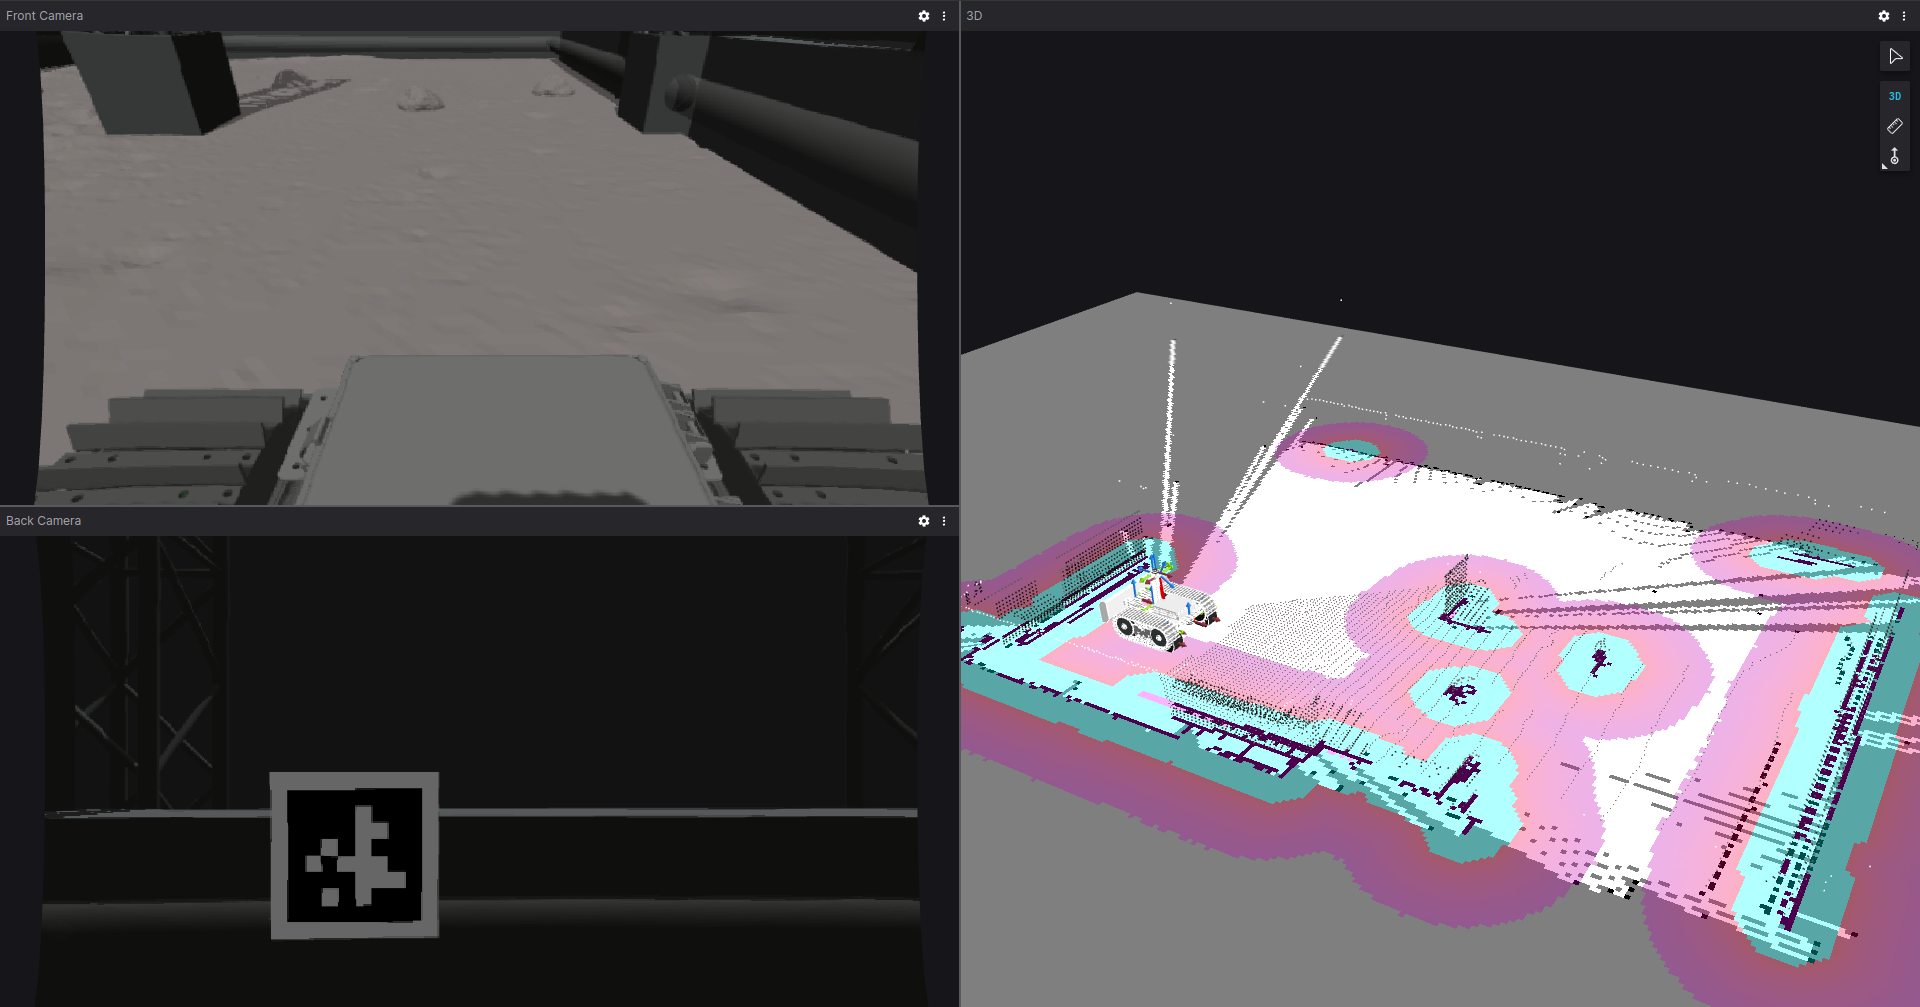
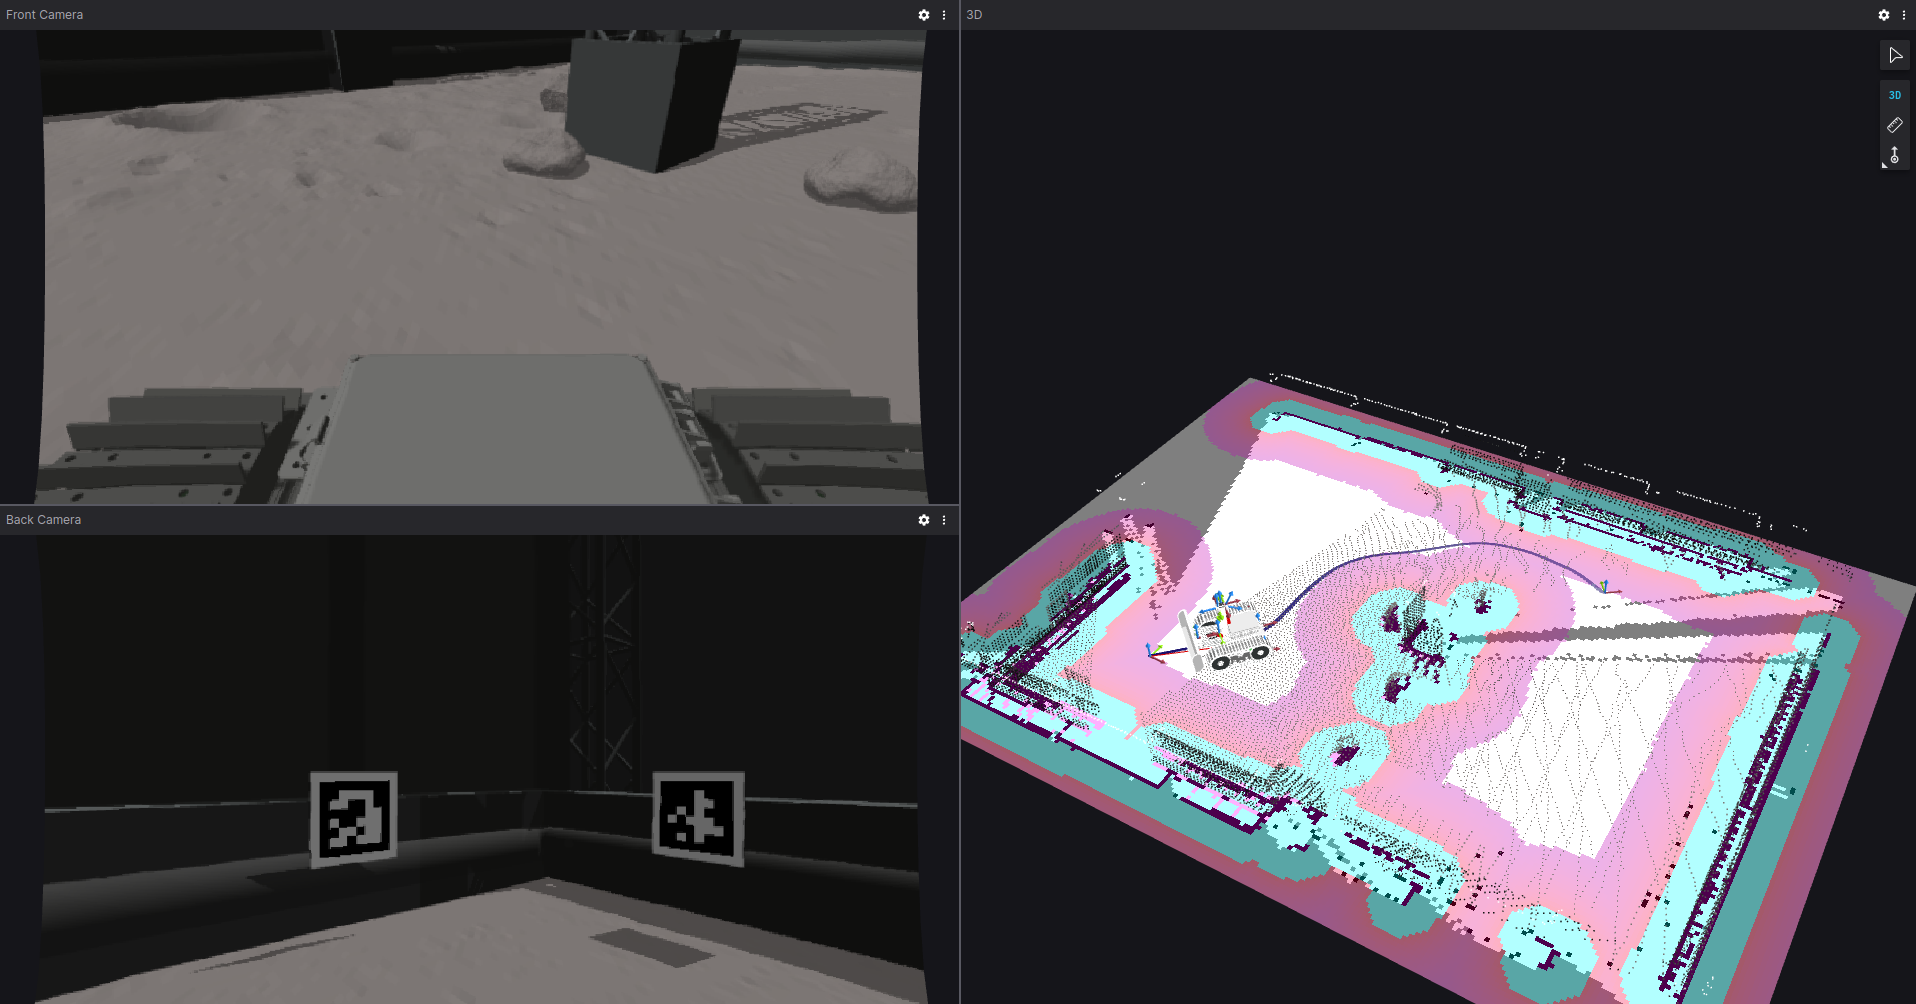
Added laser_filters to improve quality of lidar scans, added another rock to artemis_arena2.world, tuned nav2 params.

diff --git a/lunabot_bringup/launch/simulation_launch.py b/lunabot_bringup/launch/simulation_launch.py
@@ -30,6 +30,9 @@ def generate_launch_description():
     config_dir = get_package_share_directory("lunabot_config")
     nav2_bringup_dir = get_package_share_directory("nav2_bringup")
 
+    s3_params_file = os.path.join(config_dir, "params", "laser_filters", "s3_params.yaml")
+    s2l_params_file = os.path.join(config_dir, "params", "laser_filters", "s2l_params.yaml")
+
     declare_robot_mode = DeclareLaunchArgument(
         "robot_mode",
         default_value="manual",
@@ -207,6 +210,24 @@ def generate_launch_description():
         ],
     )
 
+    s3_filter_node = Node(
+                package="laser_filters",
+                executable="scan_to_scan_filter_chain",
+                parameters=[s3_params_file],
+                remappings=[("scan", "/scan_raw"),
+                            ("scan_filtered", "/scan")
+                ]
+    )
+
+    s2l_filter_node = Node(
+                package="laser_filters",
+                executable="scan_to_scan_filter_chain",
+                parameters=[s2l_params_file],
+                remappings=[("scan", "/scan2_raw"),
+                            ("scan_filtered", "/scan2")
+                ]
+    )
+
     localization_server_node = Node(
         package="lunabot_system",
         executable="localization_server",
@@ -294,6 +315,8 @@ def generate_launch_description():
                         icp_odometry_node,
                         rf2o_odometry_node,
                         ukf_node,
+                        s3_filter_node,
+                        s2l_filter_node,
                     ],
                 ),
                 TimerAction(
@@ -333,6 +356,8 @@ def generate_launch_description():
                         rf2o_odometry_node,
                         ukf_node,
                         slam_node,
+                        s3_filter_node,
+                        s2l_filter_node,
                     ],
                 ),
                 TimerAction(

diff --git a/lunabot_bringup/launch/visualization_launch.py b/lunabot_bringup/launch/visualization_launch.py
@@ -43,7 +43,7 @@ def generate_launch_description():
 
     rviz_config_file = os.path.join(config_dir, "rviz", "robot_view.rviz")
     urdf_real_file = os.path.join(simulation_dir, "urdf", "robot", "real", "trencher_bot.xacro")
-    world_file = os.path.join(simulation_dir, "urdf", "worlds", "high_resolution", "artemis", "artemis_arena3.world")
+    world_file = os.path.join(simulation_dir, "urdf", "worlds", "high_resolution", "artemis", "artemis_arena2.world")
 
     declare_robot_type = DeclareLaunchArgument(
         "robot_type",
